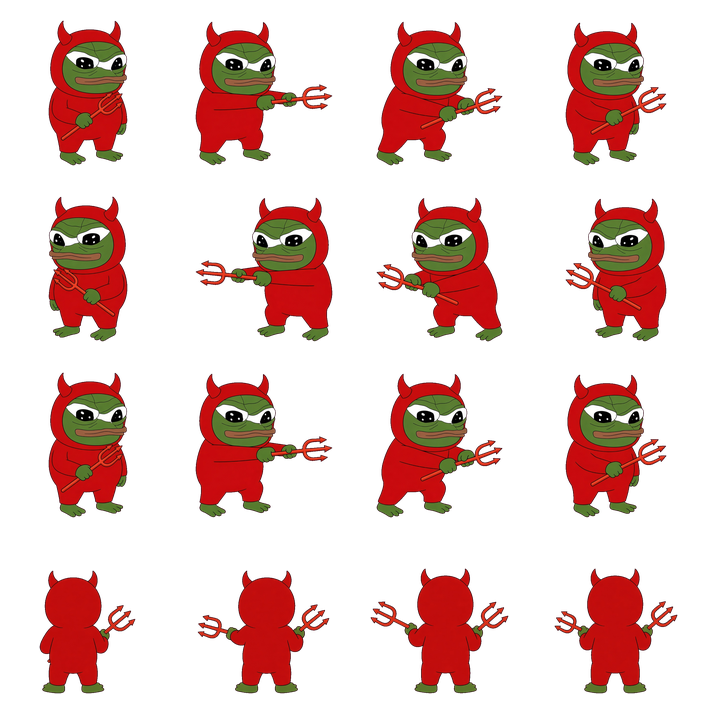
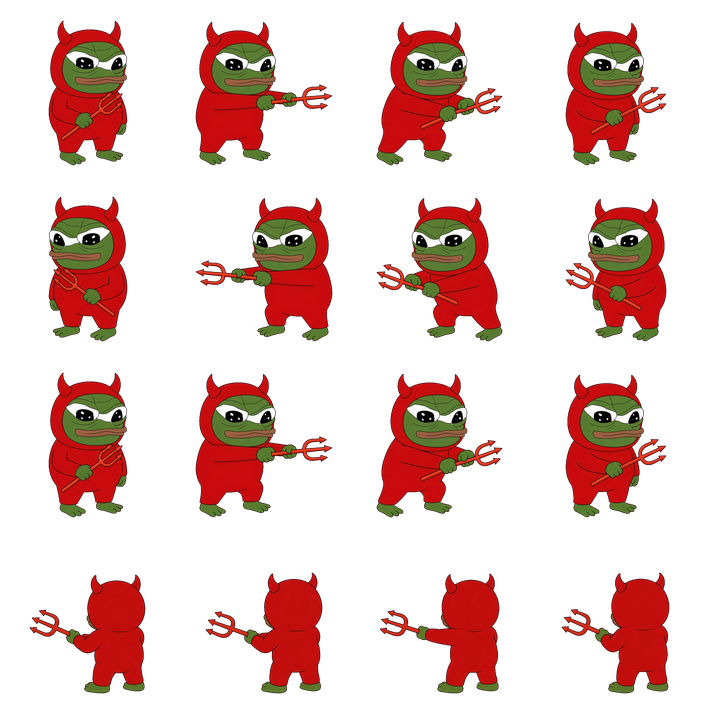
North sprites: two-handed pitchfork on walk, poke, and throw

diff --git a/dungeon.html b/dungeon.html
@@ -116,10 +116,10 @@
     return img;
   }
   const sheets = {
-    idle: loadImg("game/player-idle.png?v=10"),
-    walk: loadImg("game/player-walk.png?v=10"),
-    attack: loadImg("game/player-attack.png?v=10"),
-    shoot: loadImg("game/player-shoot.png?v=10"),
+    idle: loadImg("game/player-idle.png?v=11"),
+    walk: loadImg("game/player-walk.png?v=11"),
+    attack: loadImg("game/player-attack.png?v=11"),
+    shoot: loadImg("game/player-shoot.png?v=11"),
     jeetB: loadImg("game/jeet-blue.png?v=4"),
     jeetS: loadImg("game/jeet-suit.png?v=4"),
     fire: loadImg("game/fireball.png?v=4"),
